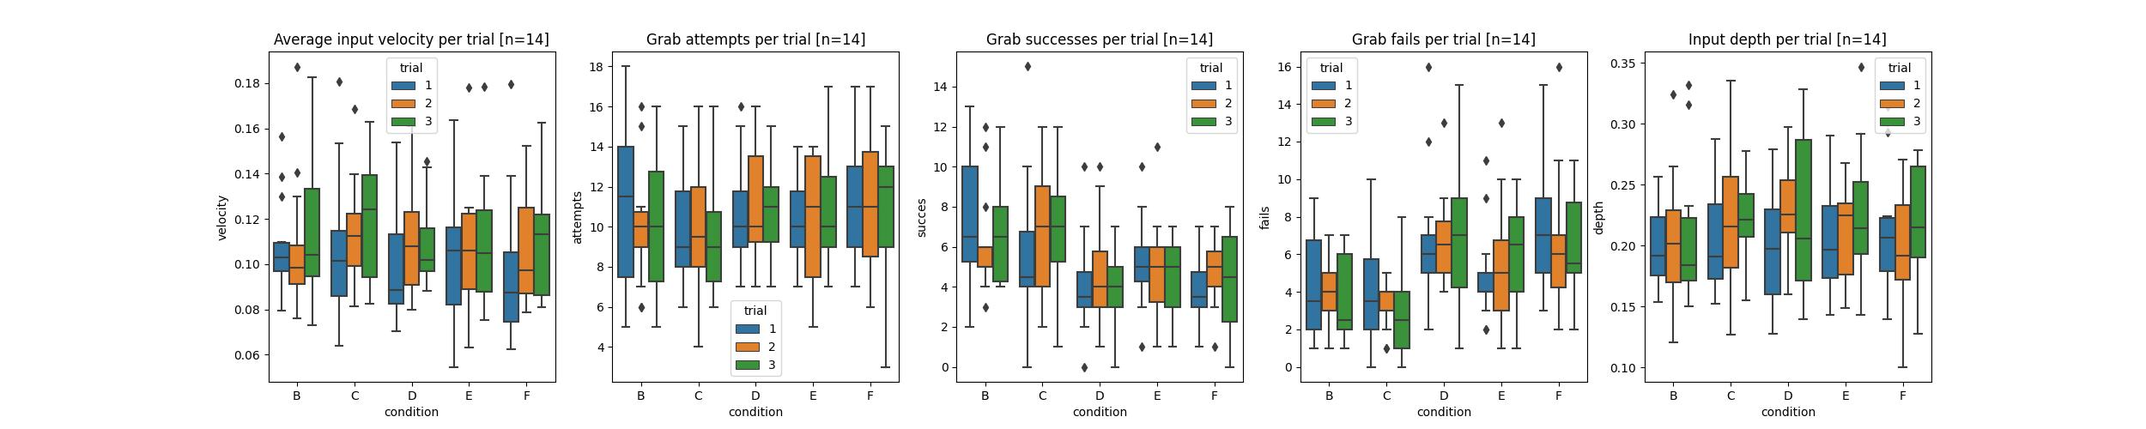
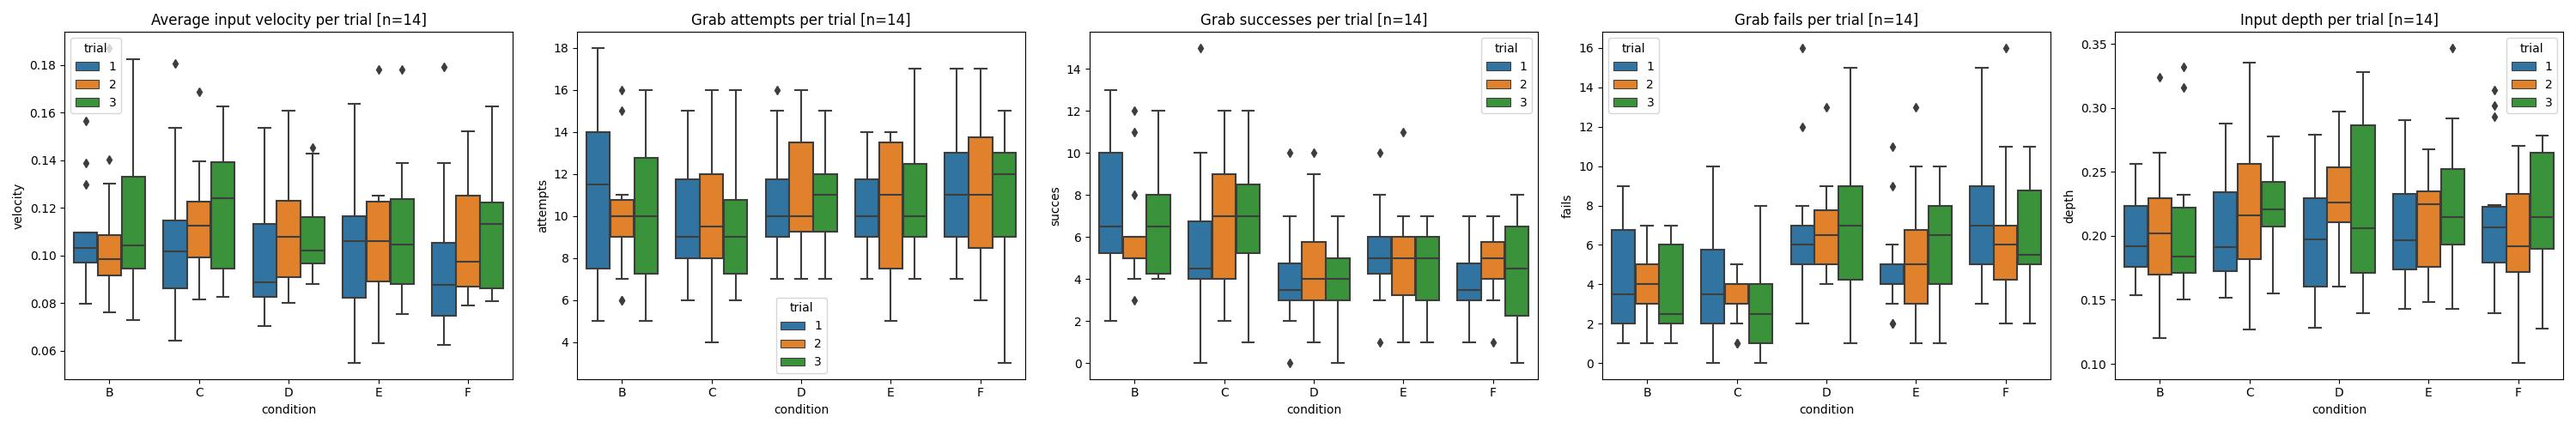
changes figure to cropped layout

diff --git a/plot.py b/plot.py
@@ -124,7 +124,7 @@ for p in Participants:
             new_row = [data[p][c][t]['depth'], p, c, t]
             trail_depth.loc[len(trial_grabs)] = new_row            
 
-fig7, ax7 = plt.subplots(1,5, figsize=(25, 5))
+fig7, ax7 = plt.subplots(1,5, figsize=(30, 5))
 sns.boxplot(x=trial_velocity['condition'], y=trial_velocity['velocity'], hue=trial_velocity['trial'], ax=ax7[0])
 ax7[0].set_title('Average input velocity per trial [n={}]'.format(len(Participants)))
 sns.boxplot(x=trial_grabs['condition'], y=trial_grabs['attempts'], hue=trial_grabs['trial'], ax=ax7[1])
@@ -136,6 +136,7 @@ ax7[3].set_title('Grab fails per trial [n={}]'.format(len(Participants)))
 sns.boxplot(x=trail_depth['condition'], y=trail_depth['depth'], hue=trail_depth['trial'], ax=ax7[4])
 ax7[4].set_title('Input depth per trial [n={}]'.format(len(Participants)))
 
+fig7.tight_layout()
 fig7.savefig("plots/learning_effects.jpg")
 
 # %% plot input paths
